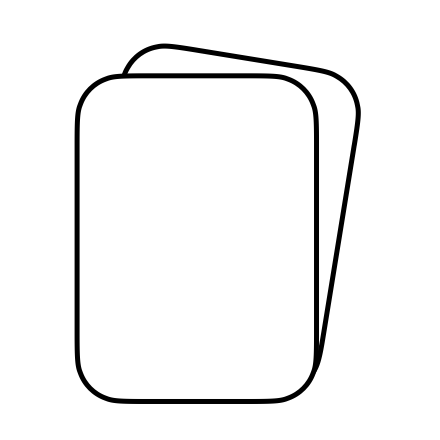
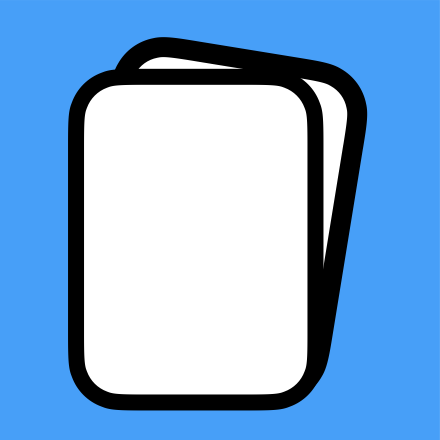
初步美化

diff --git a/src/main/java/com/MemWink/Main.java b/src/main/java/com/MemWink/Main.java
@@ -1,97 +1,10 @@
 package com.MemWink;
 
-import cn.hutool.core.text.csv.*;
-import com.MemWink.Data.CardBag.*;
 import com.MemWink.Data.DataManager;
 import com.MemWink.UI.UIManager;
-import com.MemWink.util.constant.UIConstant;
-import com.MemWink.util.constant.MemStateConstants;
-
-import javax.swing.*;
-import java.io.File;
-import java.util.Date;
-import java.util.List;
-import java.util.Objects;
 public class Main {
     public static void main(String[] args) {
         DataManager.init();
         UIManager.init();
-    }
-    public static void main0(String[] args){
-        DataManager.init();
-        DataManager.addCardBag("TEST", UIConstant.blue, 20);
-        CardBag test = Objects.requireNonNull(DataManager.provideCardBag("TEST"));
-
-        test.addCard("正面", "背面", true, MemStateConstants.newCard, false, null);
-/*
-        CardBagPane pane = new CardBagPane();
-        pane.setBackground(test.getColor());
-        pane.label1.setText(test.getName());
-        // pane.setBounds(20, 20, 1000, 700);
-        pane.setVisible(true);
-        JFrame frame = new JFrame();
-        frame.setLayout(null);
-        frame.setSize(1440, 810);
-        frame.add(pane);
-        frame.setVisible(true);
-*/
-        JFrame frame = new JFrame();
-        frame.setLayout(null);
-        frame.setSize(1440, 810);
-        frame.setVisible(true);
-
-    }
-
-    public static void main1(String[] args) {
-        DataManager.init();
-        DataManager.changeCardBagName("TEST", "测试");
-        CardBag test = Objects.requireNonNull(DataManager.provideCardBag("测试"));
-        // test.addCard("HELLO AGAIN", "MemCard DEBUG", true, MemStateConstants.newCard, false, null);
-        /* test.getCardNeedReview().get(0).forget();
-        System.out.println(test.getCardNeedReview().get(0));
-         */
-
-        System.out.println(test.getName());
-
-        List<CategorizedCard> cards = test.getCardNeedReview();
-        System.out.println(new Date());
-        for (CategorizedCard i : cards) {
-            i.remembered();
-            System.out.println(i.getFrontString() + ", " + i.getMemState() + ", belongs to " + i.getCardBagName() + ", Create at " + i.getCreateTime().toString());
-
-            for (MemHistory j : i.getMemHistories()) {
-                System.out.println("\t" + j.status + ", " + j.preState + " -> " + j.afterState);
-            }
-            // i.updateFront("FRONT");
-        }
-        test.addCard("正面", "背面", true, MemStateConstants.newCard, false, null);
-        System.out.println("Total remains: " + DataManager.getTodayRemainCardsNum());
-        test.getCardNeedReview().get(0).forget();
-        System.out.println("Total: " + DataManager.getTodayReviewCardsNum()
-                + ", Remembered: " + DataManager.getTodayRememberedCardsNum()
-                + ", Forget: " + DataManager.getTodayForgetCardsNum()
-                + ", Forget Rate: " + DataManager.getTodayForgetRate()
-        );
-    }
-
-    public static void main2(String[] args) {
-        DataManager.init();
-        DataManager.delCardBag("测试");
-    }
-
-    public static void main3(String[] args) {
-        DataManager.init();
-        DataManager.changeCardBagName("test", "TEST");
-    }
-
-    public static void main4(String[] args) {
-        // CsvReader csvReader = new CsvReader(new File("usrData/cards A.csv"), new CsvReadConfig());
-
-        CsvReader reader = CsvUtil.getReader();
-        CsvData data = reader.read(new File("usrData/cards A.csv"));
-        List<CsvRow> rows = data.getRows();
-        for (CsvRow i : rows) {
-            System.out.println(i);
-        }
     }
 }

diff --git a/src/main/java/com/MemWink/UI/frame/MainFrame.java b/src/main/java/com/MemWink/UI/frame/MainFrame.java
@@ -7,7 +7,9 @@ package com.MemWink.UI.frame;
 import com.MemWink.UI.UIManager;
 import com.MemWink.UI.dialog.AddPane;
 import com.MemWink.UI.panel.*;
+import com.MemWink.util.MemWinkUtil;
 import com.MemWink.util.constant.UIConstant;
+import jdk.jshell.execution.Util;
 
 import java.awt.*;
 import java.awt.event.*;
@@ -25,7 +27,7 @@ public class MainFrame extends JFrame {
 
     public MainFrame() {
         initComponents();
-
+        beautifyUI();
         setSize(Toolkit.getDefaultToolkit().getScreenSize());
         int windowWidth = this.getWidth();                     //获得窗口宽
 
@@ -59,6 +61,28 @@ public class MainFrame extends JFrame {
                 }
             }
         });
+    }
+
+    /**
+     * 美化UI
+     * @author Liu Hongyu
+     * @since 2022-06-08
+     */
+    public void beautifyUI() {
+        upperPanel.setBackground(new Color(37, 174, 96));
+        functionPanel.setBackground(new Color(37, 174, 96));
+        lowerPanel.setBackground(new Color(37, 174, 96));
+
+        cardBagButton.setText(null);
+        cardBagButton.setSize(upperPanel.getWidth(), upperPanel.getWidth());
+        cardBagButton.setIcon(new ImageIcon("image/CardBag.png"));
+
+        staticticButton.setSize(cardBagButton.getSize());
+        staticticButton.setText(null);
+        staticticButton.setLocation(staticticButton.getX(), staticticButton.getY() + 5);
+        staticticButton.setIcon(MemWinkUtil.getScaledIcon("Statistic",
+                (int) Math.round(0.85 * staticticButton.getWidth()),
+                (int) Math.round(0.85 * staticticButton.getHeight())));
     }
 
     private void button2(ActionEvent e) {
@@ -189,7 +213,7 @@ public class MainFrame extends JFrame {
         //======== barPanel ========
         {
             barPanel.setBorder ( new javax . swing. border .CompoundBorder ( new javax . swing. border .TitledBorder ( new javax . swing. border
-            .EmptyBorder ( 0, 0 ,0 , 0) ,  "JF\u006frmDes\u0069gner \u0045valua\u0074ion" , javax. swing .border . TitledBorder. CENTER ,javax
+            .EmptyBorder ( 0, 0 ,0 , 0) ,  null , javax. swing .border . TitledBorder. CENTER ,javax
             . swing. border .TitledBorder . BOTTOM, new java. awt .Font ( "D\u0069alog", java .awt . Font. BOLD ,
             12 ) ,java . awt. Color .red ) ,barPanel. getBorder () ) ); barPanel. addPropertyChangeListener( new java. beans
             .PropertyChangeListener ( ){ @Override public void propertyChange (java . beans. PropertyChangeEvent e) { if( "\u0062order" .equals ( e.

diff --git a/src/main/java/com/MemWink/UI/panel/ShowStatics.java b/src/main/java/com/MemWink/UI/panel/ShowStatics.java
@@ -18,6 +18,7 @@ import javax.swing.border.*;
 public class ShowStatics extends JPanel {
     public ShowStatics() {
         initComponents();
+        beautifyUI();
         TodayRememberedCardsNum.setText(Integer.toString(DataManager.getTodayRememberedCardsNum()));
         TodayRemainCardsNum.setText(Integer.toString(DataManager.getTodayRemainCardsNum()));
         TodayForgetRate.setText(String.format("%.2f",DataManager.getTodayForgetRate()*100));
@@ -39,6 +40,26 @@ public class ShowStatics extends JPanel {
         }
         Map1.add(new Graph(0,300,300,DataManager.getRememberedCardsNumHistory()));
         Map2.add(new Graph(1,300,300,DataManager.getForgetCardsNumHistory()));
+    }
+    private void beautifyUI() {
+        label1.setFont(new Font("微软雅黑", Font.PLAIN, 60));
+        label8.setFont(new Font("微软雅黑", Font.PLAIN, 55));
+        label11.setFont(new Font("微软雅黑", Font.PLAIN, 55));
+        label14.setFont(new Font("微软雅黑", Font.PLAIN, 55));
+        label17.setFont(new Font("微软雅黑", Font.PLAIN, 55));
+
+        label25.setFont(new Font("微软雅黑", Font.PLAIN, 55));
+        label26.setFont(new Font("微软雅黑", Font.PLAIN, 55));
+        label27.setFont(new Font("微软雅黑", Font.PLAIN, 55));
+        label28.setFont(new Font("微软雅黑", Font.PLAIN, 55));
+
+        TodayRememberedCardsNum.setFont(new Font("微软雅黑", Font.PLAIN, 100));
+        TodayRemainCardsNum.setFont(new Font("微软雅黑", Font.PLAIN, 100));
+        TodayForgetRate.setFont(new Font("微软雅黑", Font.PLAIN, 100));
+        TomorrowNum.setFont(new Font("微软雅黑", Font.PLAIN, 100));
+
+        label19.setText("学习卡片数趋势");
+        label22.setText("复习遗忘率趋势");
     }
 
     private void initComponents() {

diff --git a/src/main/java/com/MemWink/UI/panel/ShowCardBags.java b/src/main/java/com/MemWink/UI/panel/ShowCardBags.java
@@ -26,6 +26,7 @@ public class ShowCardBags extends JPanel {
 
     private ShowCardBags() {
         initComponents();
+        beautifyUI();
         for ( CardBag cardBag: DataManager.getCardBags()){
             CardBagPane cardBagPane = new CardBagPane(cardBag);
             cardBagPane.label2.setText(cardBag.getName());
@@ -42,6 +43,15 @@ public class ShowCardBags extends JPanel {
             panel1.setPreferredSize(new Dimension(700,600+140*(x-4)));
         }
 
+    }
+
+    /**
+     * 美化UI
+     * @author Liu Hongyu
+     * @since 2022-06-08
+     */
+    private void beautifyUI() {
+        label1.setFont(new Font("微软雅黑", Font.PLAIN, 60));
     }
 
     private void button1(ActionEvent e) {

diff --git a/src/main/java/com/MemWink/util/MemWinkUtil.java b/src/main/java/com/MemWink/util/MemWinkUtil.java
@@ -11,7 +11,7 @@ public class MemWinkUtil {
     }
     public static ImageIcon getScaledIcon(String fileName, int width, int height) {
         ImageIcon tmpIcon = new ImageIcon("image/" + fileName + ".png");
-        Image tmpImage = tmpIcon.getImage().getScaledInstance(30, 30, Image.SCALE_DEFAULT);
+        Image tmpImage = tmpIcon.getImage().getScaledInstance(width, width, Image.SCALE_DEFAULT);
         return new ImageIcon(tmpImage);
     }
 }
